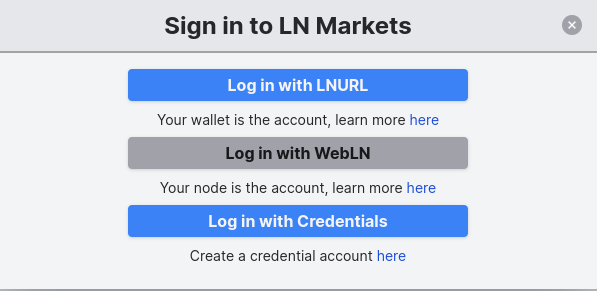
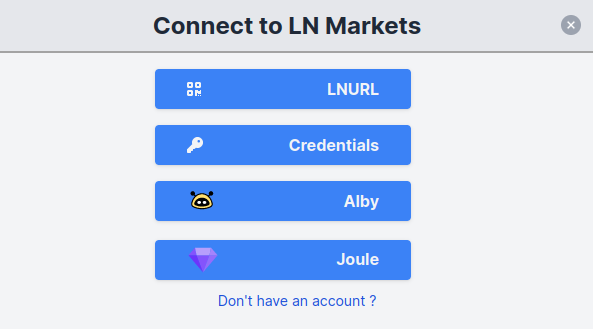
update  pictures

Changed region(s): [[0.0, 0.0309, 1.0, 0.9278], [0.0, 0.9897, 1.0, 1.0], [0.941, 0.0309, 1.0, 0.1237]]

diff --git a/src/fr/step/README.md b/src/fr/step/README.md
@@ -10,25 +10,25 @@ Veuillez l'utiliser avec précaution, de préférence sur le [Testnet](https://t
 
 LN Markets n'est assorti d'aucune garantie, utilisez-le à vos propres risques.
 
-## Login (s’identifier)
+## Connexion à LN Markets
 
-Sur [LN Markets](https://lnmarkets.com/), cliquez sur [Login] dans le coin supérieur droit :
+Sur [LN Markets](https://lnmarkets.com/), cliquez sur 'Sign In' dans le coin supérieur droit :
 
 <img :src="$withBase('/assets/login.png')" alt="login">
 
-Il existe trois méthodes d'authentification :
+Il existe quatre méthodes de connexion :
 
--  Se connecter avec LNURL : connexion instantanée avec n'importe quel portefeuille (wallet) Lightinng qui supporte [lnurl-auth](https://github.com/fiatjaf/awesome-lnurl#wallets) comme [Phoenix](https://phoenix.acinq.co/), [Breez](https://breez.technology/), etc. Il s'agit d'une méthode transparente et efficace de connexion. En effet, votre portefeuille peut signer un message avec sa clé privée. Ainsi, l'identification peut se faire uniquement avec la clé publique de votre portefeuille et aucune autre information n'est nécessaire.
+-  Se connecter avec LNURL : connexion instantanée avec n'importe quel 'wallet' (portefeuillle numérique) Lightinng qui supporte [lnurl-auth](https://github.com/fiatjaf/awesome-lnurl#wallets) comme [Phoenix](https://phoenix.acinq.co/), [Breez](https://breez.technology/), etc. Il s'agit d'une méthode transparente et efficace de connexion. En effet, votre portefeuille peut signer un message avec sa clé privée. Ainsi, l'identification peut se faire uniquement avec la clé publique de votre portefeuille et aucune autre information n'est nécessaire.
 
 <img :src="$withBase('/assets/lnurl_auth.png')" alt="lnurl_auth">
-
-- Se connecter avec WebLN: [WebLN](https://webln.dev/#/) est un moyen d'interagir avec le nœud Lightning d'un utilisateur via le navigateur web. [Alby](https://getalby.com/) est par exemple une extension de navigateur compatible avec WebLN, qui utilise votre propre nœud.
 
 - Se connecter avec des 'Credentials' (identifiants) : vous pouvez créer un compte directement, en entrant votre 'login' et votre mot de passe.
 
 <img :src="$withBase('/assets/credentials.png')" alt="credentials">
 
 Vous avez également la possibilité d'entrer une adresse électronique pour la récupération du compte.
+
+- Se connecter avec [Alby](https://getalby.com/) and [Joule](https://lightningjoule.com/): ce sont des extensions Bitcoin/Lightning pour navigateur web  qui se connectent à différentes interfaces pour une intégration et une inteaction directe avec ces réseaux.
 
 ## Créditer votre compte
 
@@ -38,11 +38,11 @@ Cliquez sur le bouton 'Deposit' (Dépôt) dans le coin inférieur gauche et choi
 
 Le montant maximal est automatiquement calculé pour respecter les limites de dépôt maximales (2 millions de sats - marge disponible - marge utilisée).
 
-Pour confirmer ce dépôt, vous pouvez scanner le QR code avec votre portefeuille. Cliquez dessus (pour les applications WebLN) ou copiez la facture ('invoice') directement :
-
-<img :src="$withBase('/assets/depositqr.png')" alt="depositqr">
+Pour confirmer ce dépôt, vous pouvez scanner le QR code avec votre portefeuille. Cliquez dessus (pour les applications WebLN) ou copiez la facture ('invoice') directement.
 
 Votre dépôt est maintenant confirmé et vous pouvez le voir dans votre compte.
+
+<!-- <img :src="$withBase('/assets/depositqr.png')" alt="depositqr"> -->
 
 <!--<img :src="$withBase('/assets/deposit_conf.png')" alt="deposit_conf">
 
@@ -104,7 +104,7 @@ Si vous avez un portefeuille avec [LNURL](https://github.com/fiatjaf/awesome-lnu
 
 ## Modifier votre profil
 
-Cliquez sur la section 'Profile' sous votre nom d'utilisateur pour modifier votre nom d'utilisateur, mettre à jour votre mot de passe et générer vos clés API ('API keys') :
+Cliquez sur la section 'Profile' en haut à droite pour modifier votre nom d'utilisateur, mettre à jour votre mot de passe et générer vos clés API ('API keys') :
 
 <img :src="$withBase('/assets/profile.png')" alt="profile">
 

diff --git a/src/step/README.md b/src/step/README.md
@@ -10,25 +10,25 @@ Please use with care, preferably on [Testnet](https://testnet.lnmarkets.com/) or
 
 LN Markets comes with no guarantees, use at your own risk.
 
-## Login
+## Connection to LN Markets
 
-On [LN Markets](https://lnmarkets.com/), click on Login in the upper right hand corner:
+On [LN Markets](https://lnmarkets.com/), click on Sign In in the upper right hand corner:
 
 <img :src="$withBase('/assets/login.png')" alt="login">
 
-There are three methods for authentication:
+There are four methods to connect to LN Markets:
 
-- Log in with LNURL: instant login with any wallet which supports [lnurl-auth](https://github.com/fiatjaf/awesome-lnurl#wallets) like [Phoenix](https://phoenix.acinq.co/), [Breez](https://breez.technology/), etc. This is a seamless and efficient way to log in and trade on LN Markets: your wallet can sign a message with its Private Key. Hence, identification can be done just with your wallet’s Public Key and no other information is needed.
+- Sign in with LNURL: instant with any wallet which supports [lnurl-auth](https://github.com/fiatjaf/awesome-lnurl#wallets) like [Phoenix](https://phoenix.acinq.co/), [Breez](https://breez.technology/), etc. This is a seamless and efficient way to log in and trade on LN Markets: your wallet can sign a message with its Private Key. Hence, identification can be done just with your wallet’s Public Key and no other information is needed.
 
 <img :src="$withBase('/assets/lnurl_auth.png')" alt="lnurl_auth">
 
-- Log in with WebLN: [WebLN](https://webln.dev/#/) is a way of interacting with a user's Lightning node via the browser. [Alby](https://getalby.com/) is for example a WebLN-enabled browser extension that uses your own node.
-
-- Log in with Credentials: you can create an account directly, entering your login and password.
+- Sign in with Credentials: you can create an account directly, entering your login and password.
 
 <img :src="$withBase('/assets/credentials.png')" alt="credentials">
 
 You have the option to enter an email address for account recovery.
+
+- Sign in with [Alby](https://getalby.com/) and [Joule](https://lightningjoule.com/): they are Bitcoin Lightning Browser extensions that connects to different wallet interfaces and brings deep lightning integration to the web.
 
 ## Fund your account
 
@@ -38,11 +38,11 @@ Click on the button Deposit on the lower left hand corner and choose the amount 
 
 Maximum amount is automatically computed to respect maximum deposit limits (2 million sats - margin available - margin used).
 
-To confirm this deposit, you can scan the QR Code with your wallet, click on it (for WebLN apps) or copy the invoice and paste it directly:
-
-<img :src="$withBase('/assets/depositqr.png')" alt="depositqr">
+To confirm this deposit, you can scan the QR Code with your wallet, click on it (for WebLN apps) or copy the invoice and paste it to your wallet.
 
 Your deposit is now confirmed and you can see it in your balance.
+
+<!-- <img :src="$withBase('/assets/depositqr.png')" alt="depositqr"> -->
 
 <!--<img :src="$withBase('/assets/deposit_conf.png')" alt="deposit_conf">
 
@@ -102,9 +102,9 @@ Click on the button Withdraw on the lower left hand corner and choose the amount
 
 If you have a wallet with [LNURL](https://github.com/fiatjaf/awesome-lnurl#wallets), you can just scan the QR code to receive the payment immediately. Else, you can just copy the invoice to your wallet.
 
-## Edit your profile
+## Edit your account
 
-Click on your Profile section under your Login name to edit your username, your leaderboard settings, update your password and generate your API keys tokens:
+Click on your Profile section en la esquina superior derecha to edit your username, your leaderboard settings, update your password and generate your API keys tokens:
 
 <img :src="$withBase('/assets/profile.png')" alt="profile">
 

diff --git a/src/es/step/README.md b/src/es/step/README.md
@@ -12,23 +12,23 @@ LN Markets no ofrece ninguna garantía, utilícelo bajo su propia responsabilida
 
 ## Inicio de sesión
 
-En [LN Markets](https://lnmarkets.com/), haga clic en Inicio de sesión [Login] en la esquina superior derecha:
+En [LN Markets](https://lnmarkets.com/), haga clic en Inicio de sesión [Sign In] en la esquina superior derecha:
 
 <img :src="$withBase('/assets/login.png')" alt="login">
 
-Existen tres métodos de autentificación:
+Existen cuatro métodos de inicio de sesión:
 
-- Inicio de sesión con LNURL: inicio de sesión instantáneo con cualquier monedero que soporte [lnurl-auth](https://github.com/fiatjaf/awesome-lnurl#wallets) como [Phoenix](https://phoenix.acinq.co/), [Breez](https://breez.technology/), etc. Se trata de una forma sencilla y eficaz de iniciar sesión y operar en LN Markets: su monedero puede firmar un mensaje con su llave privada. Por lo tanto, la identificación se puede hacer sólo con la llave pública de su monedero y no se necesita ninguna otra información.
+- Iniciar sesión con LNURL: inicio de sesión instantáneo con cualquier monedero que soporte [lnurl-auth](https://github.com/fiatjaf/awesome-lnurl#wallets) como [Phoenix](https://phoenix.acinq.co/), [Breez](https://breez.technology/), etc. Se trata de una forma sencilla y eficaz de iniciar sesión y operar en LN Markets: su monedero puede firmar un mensaje con su llave privada. Por lo tanto, la identificación se puede hacer sólo con la llave pública de su monedero y no se necesita ninguna otra información.
 
 <img :src="$withBase('/assets/lnurl_auth.png')" alt="lnurl_auth">
-
-- Iniciar sesión con WebLN: [WebLN](https://webln.dev/#/) es una forma de interactuar con el nodo Lightning de un usuario a través del navegador. [Alby](https://getalby.com/) es un ejemplo de extensión del navegador habilitada para WebLN que utiliza su propio nodo.
 
 - Iniciar sesión con credenciales: puede crear una cuenta directamente, introduciendo su nombre de usuario y contraseña.
 
 <img :src="$withBase('/assets/credentials.png')" alt="credentials">
 
 Tiene la opción de introducir una dirección de correo electrónico para recuperar su cuenta.
+
+- Iniciar sesión con  [Alby](https://getalby.com/) y [Joule](https://lightningjoule.com/): son extensiones de browser web Bitcoin/Lightning  que se conectan a diferentes interfaces de billetera y brindan una profunda integración de Lightning a la web.
 
 ## Deposite fondos en su cuenta
 
@@ -38,11 +38,11 @@ Haga clic en el botón Depositar [Deposit] en la esquina inferior izquierda y el
 
 El importe máximo se calcula automáticamente para respetar los límites máximos de depósito (2 millones de sats — margen disponible — margen utilizado).
 
-Para confirmar este depósito, puede escanear el código QR con su monedero, hacer clic en él (para las aplicaciones WebLN) o copiar la factura [invoice] y pegarla directamente:
-
-<img :src="$withBase('/assets/depositqr.png')" alt="depositqr">
+Para confirmar este depósito, puede escanear el código QR con su monedero, hacer clic en él (para las aplicaciones WebLN) o copiar la factura [invoice] y pegarla directamente.
 
 Su depósito está ahora confirmado y puede verlo en su saldo.
+
+<!-- <img :src="$withBase('/assets/depositqr.png')" alt="depositqr"> -->
 
 <!--<img :src="$withBase('/assets/deposit_conf.png')" alt="deposit_conf">
 

diff --git a/src/fr/faq/app.md b/src/fr/faq/app.md
@@ -28,18 +28,19 @@ le seul pré-requis est un 'wallet' Lightning avec une route ou un canal vers le
 
 Transférer fractions de bitcoins vers un wallet Lightning peut se comparer à un transfert de fonds vers une banque dépositaire pour un investissement futur. Mais avec une différence de taille : dans le cas du réseau Lightning, vous avec le contrôle total sur vos fonds avant d'effectuer votre investissement.
 
-Il existe trois méthodes d'authentification :
+Il existe quatre méthodes de connexion :
 
--  Se connecter avec LNURL : connexion instantanée avec n'importe quel portefeuille (wallet) Lightinng qui supporte [lnurl-auth](https://github.com/fiatjaf/awesome-lnurl#wallets) comme [Phoenix](https://phoenix.acinq.co/), [Breez](https://breez.technology/), etc. Il s'agit d'une méthode transparente et efficace de connexion. En effet, votre portefeuille peut signer un message avec sa clé privée. Ainsi, l'identification peut se faire uniquement avec la clé publique de votre portefeuille et aucune autre information n'est nécessaire.
+-  Se connecter avec LNURL : connexion instantanée avec n'importe quel 'wallet' (portefeuillle numérique) Lightinng qui supporte [lnurl-auth](https://github.com/fiatjaf/awesome-lnurl#wallets) comme [Phoenix](https://phoenix.acinq.co/), [Breez](https://breez.technology/), etc. Il s'agit d'une méthode transparente et efficace de connexion. En effet, votre portefeuille peut signer un message avec sa clé privée. Ainsi, l'identification peut se faire uniquement avec la clé publique de votre portefeuille et aucune autre information n'est nécessaire.
 
 <img :src="$withBase('/assets/lnurl_auth.png')" alt="lnurl_auth">
 
-- Se connecter avec WebLN: [WebLN](https://webln.dev/#/) est un moyen d'interagir avec le nœud Lightning d'un utilisateur via le navigateur web. [Alby](https://getalby.com/) est par exemple une extension de navigateur compatible avec WebLN, qui utilise votre propre nœud.
-
 - Se connecter avec des 'Credentials' (identifiants) : vous pouvez créer un compte directement, en entrant votre 'login' et votre mot de passe.
+
+<img :src="$withBase('/assets/credentials.png')" alt="credentials">
 
 Vous avez également la possibilité d'entrer une adresse électronique pour la récupération du compte.
 
+- Se connecter avec [Alby](https://getalby.com/) and [Joule](https://lightningjoule.com/): ce sont des extensions Bitcoin/Lightning pour navigateur web  qui se connectent à différentes interfaces pour une intégration et une inteaction directe avec ces réseaux.
 
 ## Comment puis je déposer des fonds sur LN Markets ?
 

diff --git a/src/es/faq/app.md b/src/es/faq/app.md
@@ -29,10 +29,20 @@ El único requisito previo es financiar una billetera Lightning con una ruta o u
 
 Financiar una billetera Lightning se puede comparar con una transferencia de fondos a un banco custodial para una inversión futura. Pero con una diferencia importante: aquí uno mantiene la propiedad total sobre sus fondos en el canal Lightning antes de la inversión.
 
-Hay dos métodos de autenticación:
-- Directamente con una billetera Lightning que admita lnurl-auth como Phoenix (lista completa [aquí](https://github.com/fiatjaf/awesome-lnurl#wallets) ) o WebLN (obtenga más información [aquí](https://webln.dev/#/)): una forma fluida y eficiente de iniciar sesión y operar en LN Markets. Su billetera puede firmar un mensaje con su clave privada. Por lo tanto, la identificación se puede realizar solo con la clave pública de su billetera. No se necesita ninguna otra información.
+Existen cuatro métodos de inicio de sesión:
 
-Creación de cuenta (billetera móvil o de escritorio): Puede definir su nombre de usuario y contraseña. Puede también definir tu email en caso de pérdida de su nombre de usuario y/o contraseña.
+- Iniciar sesión con LNURL: inicio de sesión instantáneo con cualquier monedero que soporte [lnurl-auth](https://github.com/fiatjaf/awesome-lnurl#wallets) como [Phoenix](https://phoenix.acinq.co/), [Breez](https://breez.technology/), etc. Se trata de una forma sencilla y eficaz de iniciar sesión y operar en LN Markets: su monedero puede firmar un mensaje con su llave privada. Por lo tanto, la identificación se puede hacer sólo con la llave pública de su monedero y no se necesita ninguna otra información.
+
+<img :src="$withBase('/assets/lnurl_auth.png')" alt="lnurl_auth">
+
+- Iniciar sesión con credenciales: puede crear una cuenta directamente, introduciendo su nombre de usuario y contraseña.
+
+<img :src="$withBase('/assets/credentials.png')" alt="credentials">
+
+Tiene la opción de introducir una dirección de correo electrónico para recuperar su cuenta.
+
+- Iniciar sesión con  [Alby](https://getalby.com/) y [Joule](https://lightningjoule.com/): son extensiones de browser web Bitcoin/Lightning  que se conectan a diferentes interfaces de billetera y brindan una profunda integración de Lightning a la web.
+
 
 ## ¿Cómo puedo depositar fondos en LN Markets?
 

diff --git a/src/faq/app.md b/src/faq/app.md
@@ -21,18 +21,24 @@ Some user-friendly Lightning wallets include [Phoenix](https://phoenix.acinq.co/
 If you run a Lightning Network node, you can open a direct channel to [LN Market's node](https://lnmarkets.com/node).
 
 
-## How to login to LN Markets?
+## How to connect to LN Markets?
 
 No email or private data is required to access LN Markets.
 
-There are three methods for authentication:
-- Log in with LNURL: instant login with any wallet which supports [lnurl-auth](https://github.com/fiatjaf/awesome-lnurl#wallets) like [Phoenix](https://phoenix.acinq.co/), [Breez](https://breez.technology/), etc. This is a seamless and efficient way to log in and trade on LN Markets: your wallet can sign a message with its Private Key. Hence, identification can be done just with your wallet’s Public Key and no other information is needed.
+There are four methods to connect to LN Markets:
 
-- Log in with WebLN: [WebLN](https://webln.dev/#/) is a way of interacting with a user's Lightning node via the browser.
+- Sign in with LNURL: instant with any wallet which supports [lnurl-auth](https://github.com/fiatjaf/awesome-lnurl#wallets) like [Phoenix](https://phoenix.acinq.co/), [Breez](https://breez.technology/), etc. This is a seamless and efficient way to log in and trade on LN Markets: your wallet can sign a message with its Private Key. Hence, identification can be done just with your wallet’s Public Key and no other information is needed.
 
-- Log in with Credentials: you can create an account directly, entering your login and password. 
+<img :src="$withBase('/assets/lnurl_auth.png')" alt="lnurl_auth">
 
-For account recovery, you have the option to enter an email address in your profile section.
+- Sign in with Credentials: you can create an account directly, entering your login and password.
+
+<img :src="$withBase('/assets/credentials.png')" alt="credentials">
+
+You have the option to enter an email address for account recovery.
+
+- Sign in with [Alby](https://getalby.com/) and [Joule](https://lightningjoule.com/): they are Bitcoin Lightning Browser extensions that connects to different wallet interfaces and brings deep lightning integration to the web.
+
 
 ## How can I deposit funds on LN Markets?
 
